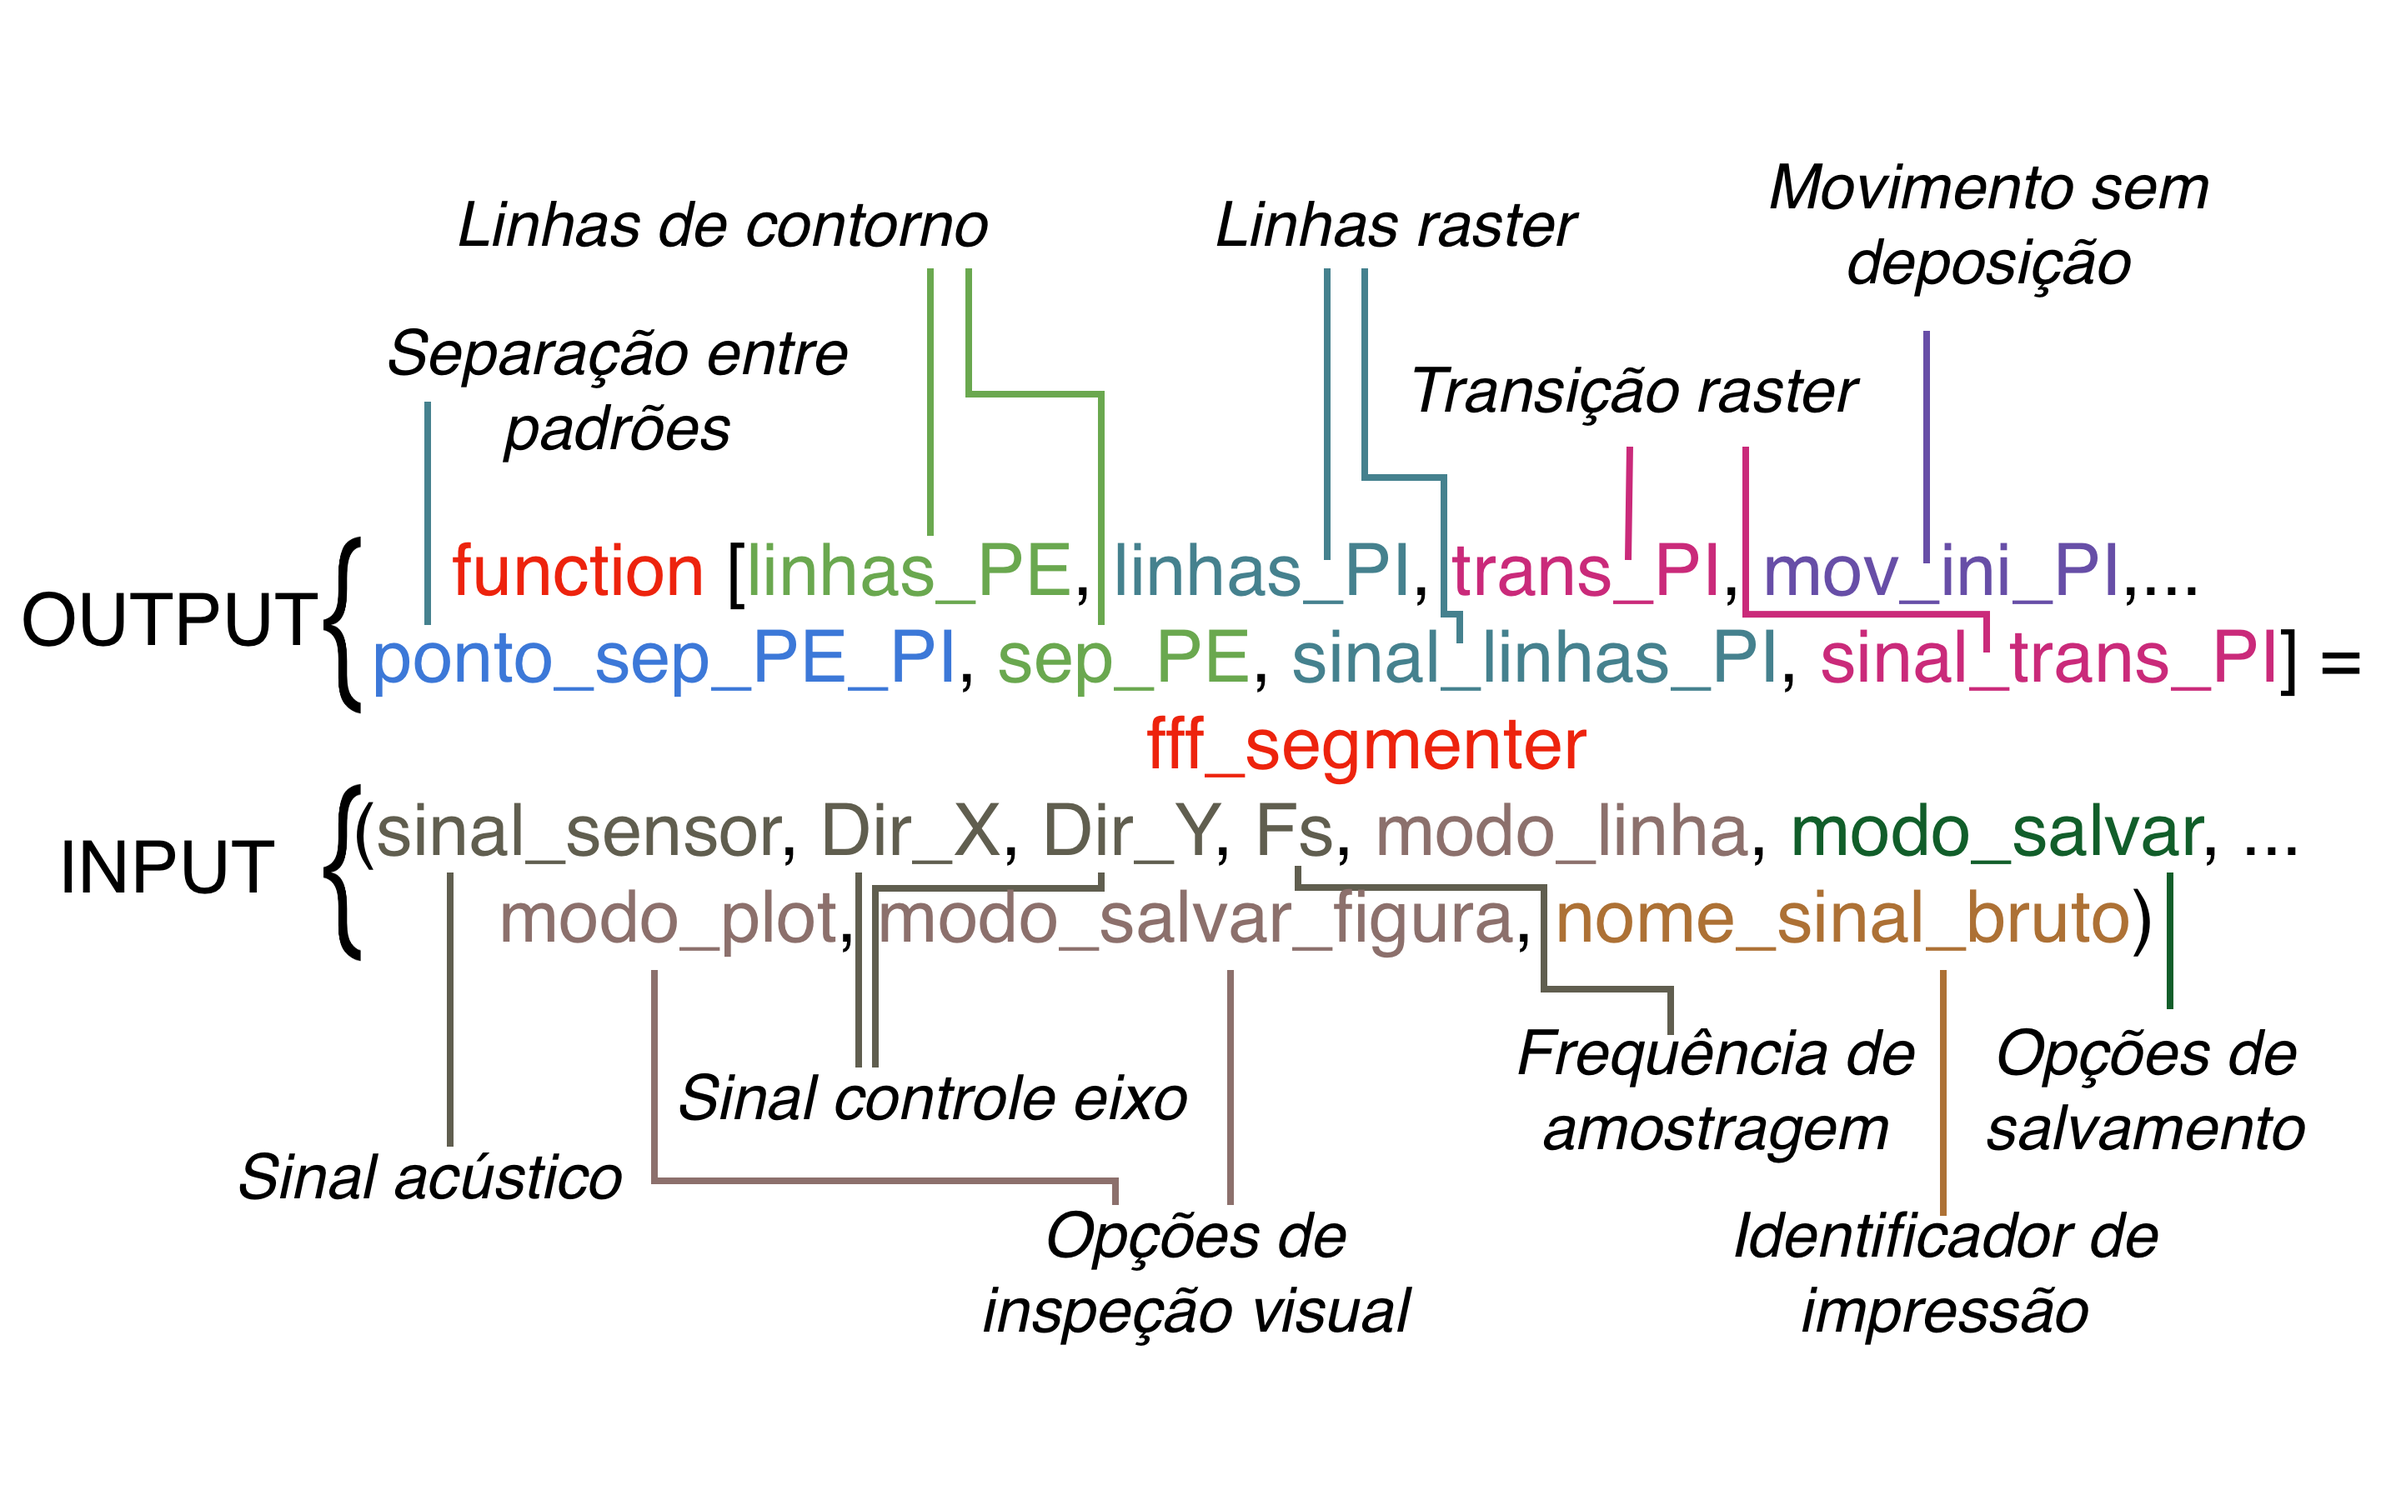
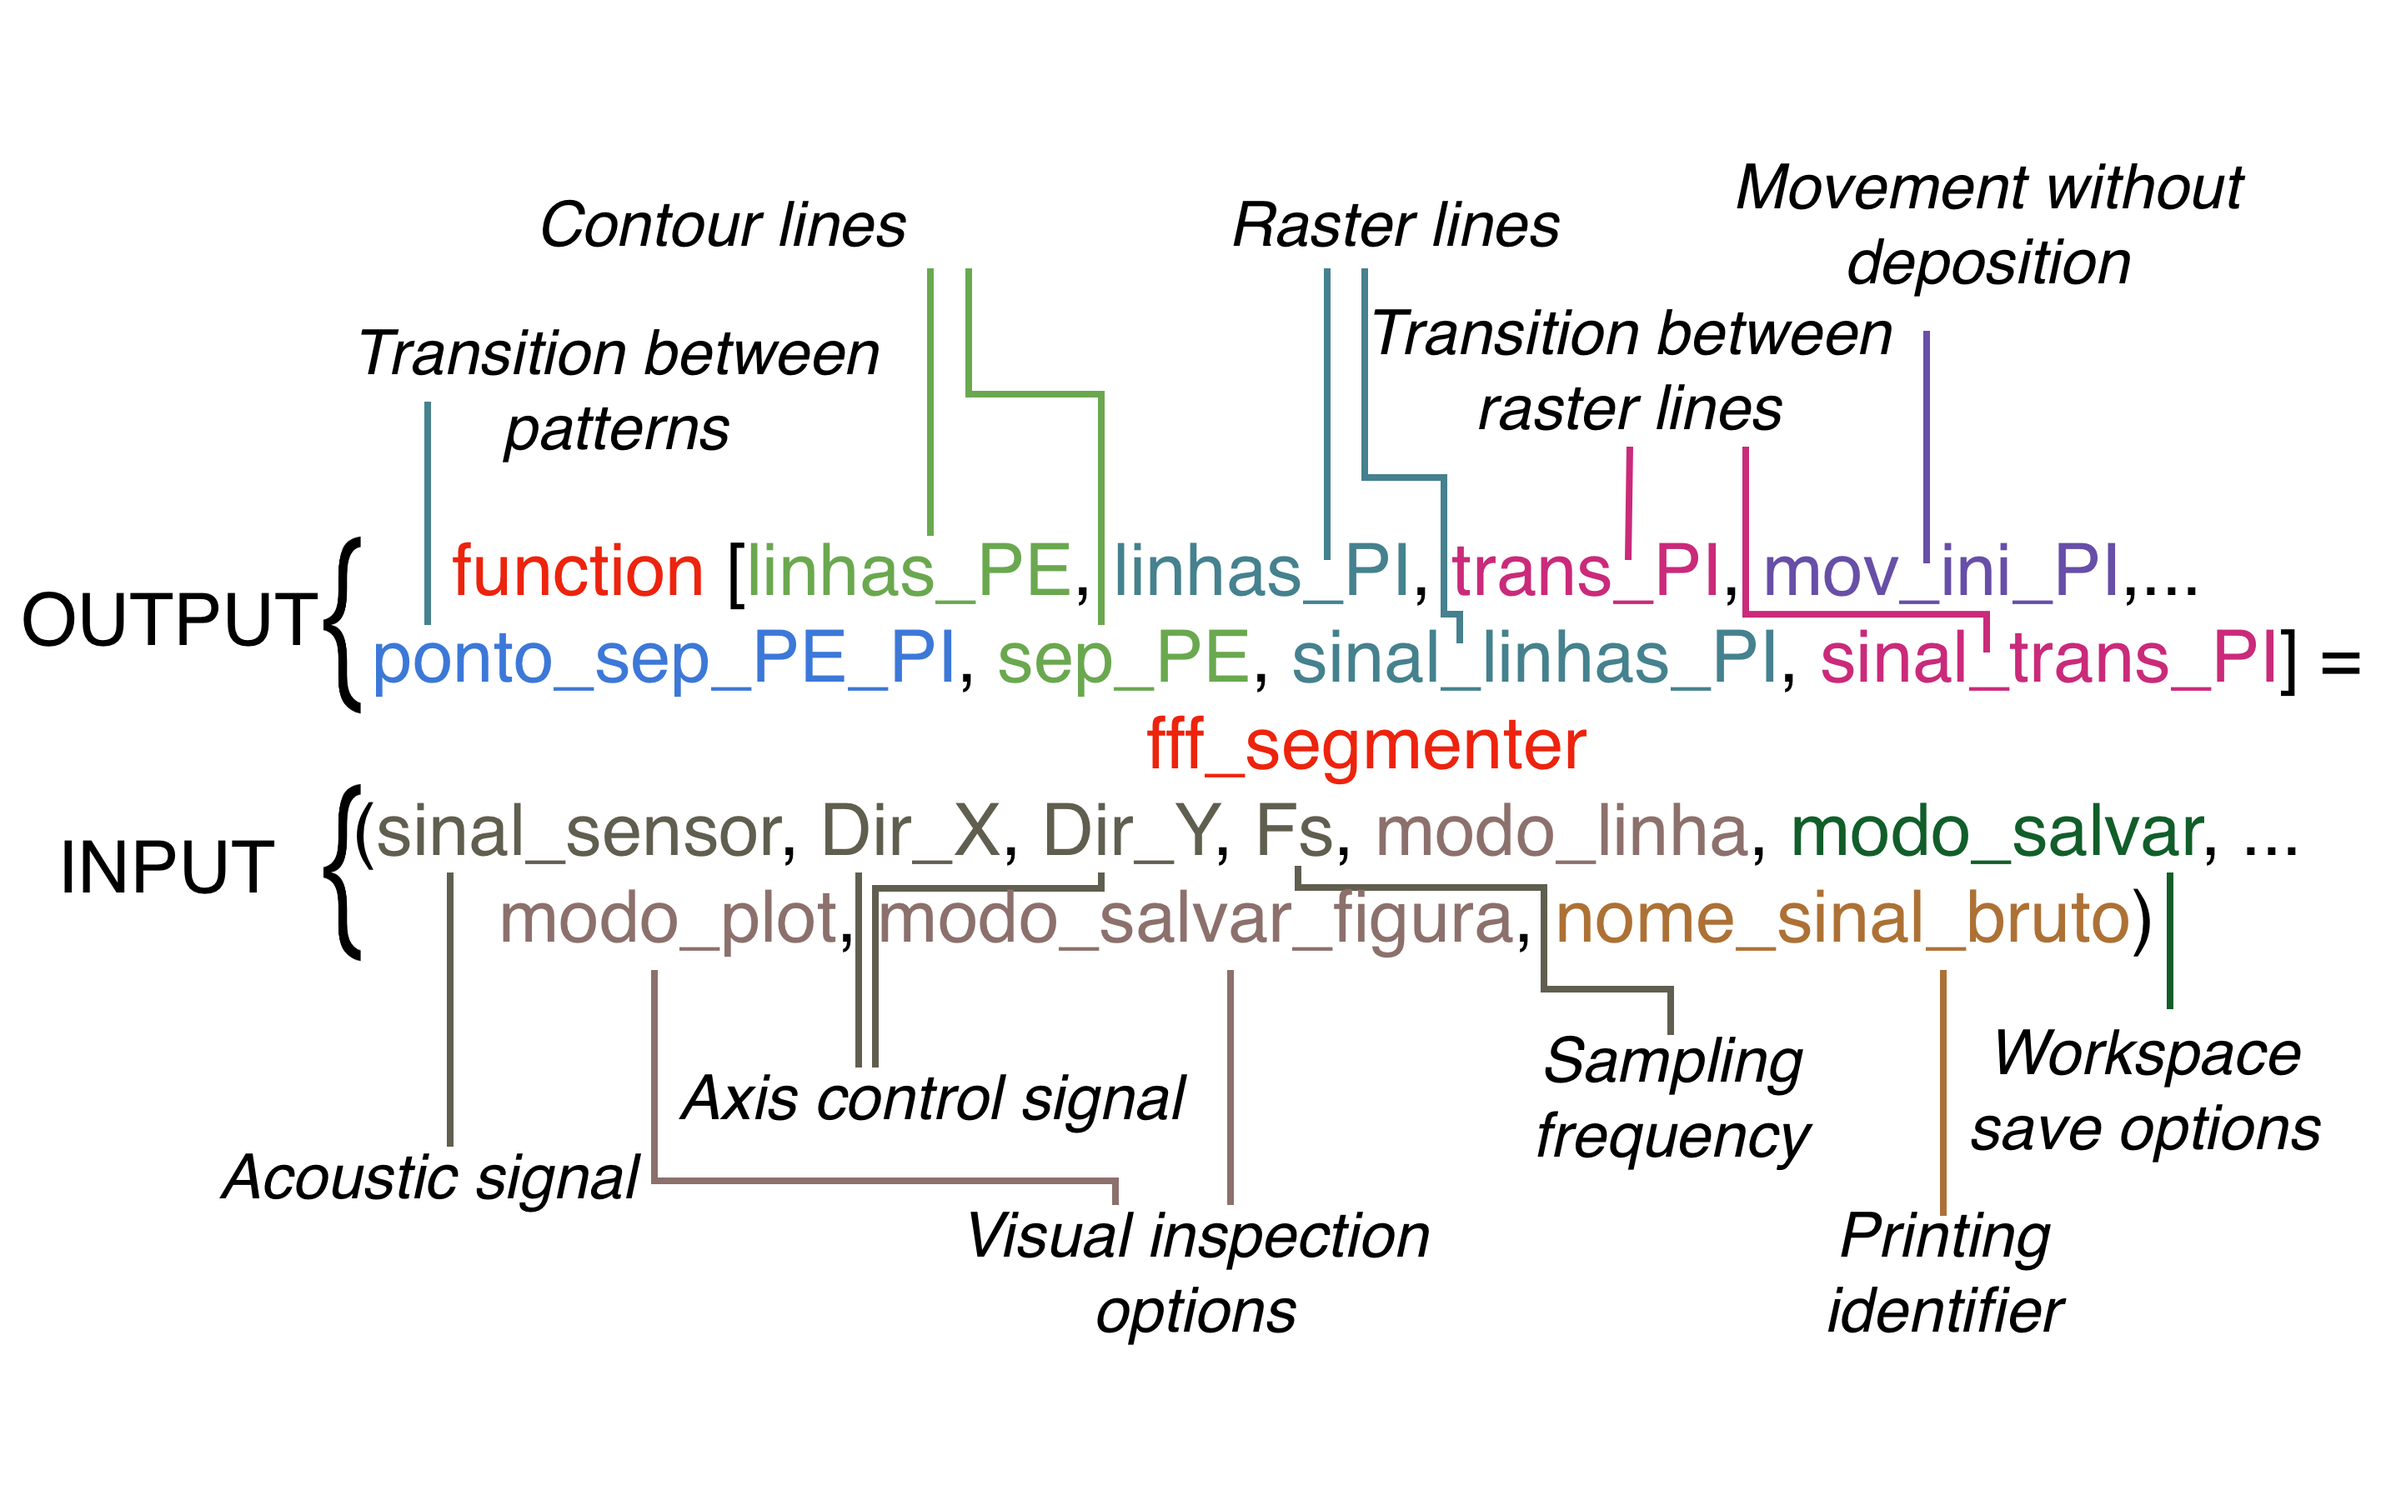
Alterações seguindo a revisão 2

diff --git a/paper.md b/paper.md
@@ -45,15 +45,17 @@ Signal segmentation is a fundamental step in the process monitoring of FFF, as i
 
 Current research on the FFF process utilizes different methods to segment the acoustic signals. However, all of these methods have a manual component, such as the evaluation of printing time for each line through video recordings of the printing process, or manually selecting the printing lines based on amplitude variations in the time domain. These manual segmentation methods pose a serious challenge to adequate process monitoring, since they are time-consuming and prone to errors due to human mistakes [@Lopes2022; @Lopes2021].
 `fff_segmenter` takes a programming approach that allows for the automatic segmentation of the printing lines in an acoustic signal, utilizing the direction control signal of the X and Y step motor axes of the FFF printer, and the signal's sampling frequency. This feature allows for accurate segmentation of the contour and raster printing lines from the acoustic signal data, thus enabling the extraction of relevant information for process monitoring and control.
-A consequence of this programming approach is that the FFF signal segmentation in `fff_segmenter`, in contrast to other methods that have a manual component, is fully automatic and less prone to errors due to human mistakes. The process operator only needs to input the acoustic signal, the direction control signal of the X and Y step motor axes of the FFF printer, and the signal's sampling frequency. In return, the operator receives the start and end points in the number of samples for each printing line, alongside other relevant process information. 
+A consequence of this programming approach is that the FFF signal segmentation in `fff_segmenter`, in contrast to other methods that have a manual component, is fully automatic and less prone to errors due to human mistakes. The process operator only needs to input the acoustic signal, the direction control signal of the X and Y step motor axes of the FFF printer, and the signal's sampling frequency. In return, the operator receives the start and end points in the number of samples for each printing line, along with other relevant process information. 
 
-![Segmentation example with `fff_segmenter`. (a) signal with raster lines; (b) signal with transition between raster lines; (c) zoom into figure (a) 48s to 52s; (d) zoom into figure (b) 48s to 52s ](Figura_exemplificativa.png){width=100%}
+![Segmentation example with `fff_segmenter`. (a) signal with raster lines; (b) signal with transition between raster lines](Figura_exemplificativa_2.png){width=100%}
 
 ### Result orientated
 
-In addition to its automatic feature, `fff_segmenter` is result-oriented. Firstly, the segmentation results can be presented in graphical windows, such as the one presented in Figure 1, that allow for a quick visual inspection of the segmentation results. This feature allows for a quick and accurate evaluation of the script's performance. Secondly, the segmentation results can be autosaved in predefined workspace data formats. These formats allow for the easy import of segmentation results into other MATLAB analyses. 
-Figure 1 exposes the different FFF process information that is extracted by applying the fff_segmenter script to an acoustic signal. The zoom windows in Figure 1(c) and Figure 1(d) show the transition period between contour lines and raster lines. In this period, it is possible to observe the last segments of the contour lines (C1_L10, C1_L11, and C1_L12), the first segments of the raster lines (RL1, RL2), and a transition period between printing patterns regarding the repositioning of the extruder where there is no deposition of filament. The observation of the transition period in Figure 1(c) also confirms an important property of the raster lines printing pattern, which is the fact that the duration of the lines is increasing, and the raster lines are always separated by a transition period that presents the same duration. These transitions between raster lines, presented in Figure 1(b), are periods of the signal in which there is deposition of filament.
+In addition to its automatic feature, `fff_segmenter` is result-oriented. Firstly, the segmentation results can be presented in graphical windows, such as the one presented in Figure 1, that allow for a quick visual inspection of the segmentation results. This feature allows for a quick and accurate evaluation of the script's performance. Secondly, the segmentation results can be autosaved in predefined workspace data formats. These formats allow for the easy import of segmentation results into other MATLAB analyses. Figure 2 reveals the input options for the process operator, and the obtained output information. 
+Figure 1 shows the segmentation results obtained by applying the `fff_segmenter` script to an acoustic signal. It is possible to observe that the acoustic signal presents many periods that are not of interest for monitoring purposes and, therefore, are not segmented. Further analysis of Figure 1 allows for the identification of contour lines, raster lines, and the transition period between printing patterns. During the transition period between printing patterns, the printer extruder repositions itself without depositing filament. The observation of the transition period analysis window (a.1) in Figure 1(a) confirms an important property of the raster lines printing pattern, which is the fact that the duration of the lines increases, and the raster lines are always separated by a transition period that presents the same duration. These transitions between raster lines, presented in Figure 1(b) analysis window (b.1), are periods of the signal during which there is deposition of filament.
 Due to being developed with the part's feature in focus, the algorithms in fff_segmenter are more direct, maintainable, and, above all, easier to understand with respect to the printer deposition movements.
+
+![`fff_segmenter` Input & Output\label{fig:examples}](Detalhamento_inputs_e_outputs.png){width=100%}
 
 ### Scalable
 
